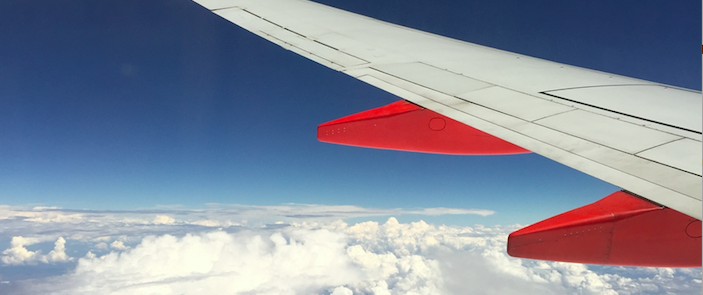
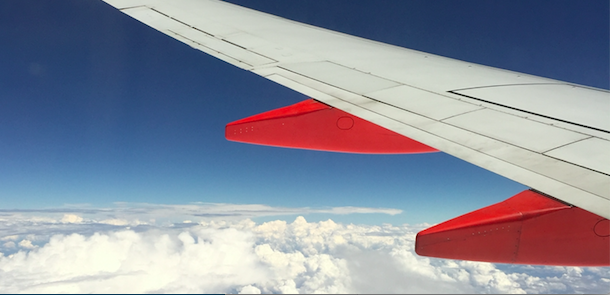
second commit everything

diff --git a/css/styles.css b/css/styles.css
@@ -9,4 +9,4 @@
     Description: This file contains all the styles associated with the page
     that don't come from third party libraries. This file gets compiled using
     Gulp and send to the /css folder which is then loaded on the page.
-*/body{font-family:'Lato', sans-serif;font-size:16px}body.active{overflow:hidden;z-index:-1}.no-js #experience-timeline>div{background:#fff;padding:10px;margin-bottom:10px;border:1px solid #dcd9d9}.no-js #experience-timeline>div h3{font-size:1.5em;font-weight:300;color:#374054;display:inline-block;margin:0}.no-js #experience-timeline>div h4{font-size:1.2em;font-weight:300;color:#7e8890;margin:0 0 15px 0}.no-js #experience-timeline>div p{color:#74808a;font-size:0.9em;margin:0}.no-js #experience-timeline:before,.no-js #experience-timeline:after{content:none}@keyframes dropHeader{0%{transform:translateY(-100%)}100%{transform:translateY(0)}}header{position:absolute;top:0;left:0;right:0;text-align:center;z-index:10;animation-name:dropHeader;animation-iteration-count:1;animation-timing-function:ease;animation-duration:0.75s}header ul{display:inline-block;background:#fff;text-align:center;padding:10px;margin:0;border-bottom-right-radius:4px;border-bottom-left-radius:4px}header li{display:inline-block}header a{display:block;color:#3498db;padding:10px}header a:hover{color:#217dbb;text-decoration:none;background:#eee;border-radius:4px}header a:focus{color:#3498db;text-decoration:none}header.active{display:block}header.sticky{position:fixed;z-index:999}#menu.active{display:block}#mobile-menu-open{display:none;cursor:pointer;position:fixed;right:15px;top:10px;color:#3498db;font-size:1.5em;z-index:20;padding:0 7px;border-radius:4px;background:#fff}#mobile-menu-close{display:none;text-align:right;width:100%;background:#fff;font-size:1.5em;padding-right:15px;padding-top:10px;cursor:pointer;color:#3498db}#mobile-menu-close span{font-size:0.5em;text-transform:uppercase}#mobile-menu-close i{vertical-align:middle}footer{padding:50px 0}.copyright{padding-top:20px}.copyright p{margin:0;color:#74808a}.top{text-align:center}.top span{cursor:pointer;display:block;margin:15px auto 0 auto;width:35px;height:35px;border-radius:50%;border:3px solid #b9bfc4;text-align:center}.top i{color:#74808a}.social{text-align:right}.social ul{margin:5px 0 0 0;padding:0}.social li{display:inline-block;font-size:1.25em;list-style:none}.social a{display:block;color:#74808a;padding:10px}.social a:hover{color:#3498db}.btn-rounded-white{display:inline-block;color:#fff;padding:15px 25px;border:3px solid #fff;border-radius:30px;transition:.5s ease all}.btn-rounded-white:hover{color:#3498db;background:#fff;text-decoration:none}.shadow{box-shadow:0 1px 3px rgba(0,0,0,0.12),0 1px 2px rgba(0,0,0,0.24)}.shadow-large{box-shadow:0 3px 6px rgba(0,0,0,0.08),0 3px 6px rgba(0,0,0,0.15)}.heading{position:relative;display:inline-block;font-size:2em;font-weight:300;margin:0 0 30px 0}.heading:after{position:absolute;content:'';top:100%;height:1px;width:50px;left:0;right:0;margin:0 auto;background:#3498db}.background-alt{background:#f2f2f5}#lead{position:relative;height:100vh;min-height:500px;max-height:1080px;background:url(../images/lead-bg.jpg);background-size:cover;padding:15px;overflow:hidden}#lead-content{position:absolute;z-index:10;top:50%;left:50%;transform:translate(-50%, -50%);text-align:center}#lead-content h1,#lead-content h2{margin:0}#lead-content h1{color:#fff;font-weight:900;font-size:5em;text-transform:uppercase;letter-spacing:0.05em;line-height:0.9em}#lead-content h2{color:#a0cfee;font-weight:500;font-size:2.25em;margin-bottom:15px}#lead-overlay{position:absolute;height:100%;width:100%;top:0;right:0;bottom:0;left:0;background:rgba(33,125,187,0.8);z-index:1}#lead-down{position:absolute;left:0;right:0;width:100%;text-align:center;z-index:10;bottom:15px;color:#fff}#lead-down span{cursor:pointer;display:block;margin:0 auto;width:35px;height:35px;border-radius:50%;border:3px solid #a0cfee;text-align:center}#lead-down i{animation:pulsate 1.5s ease;animation-iteration-count:infinite;padding-top:5px}@keyframes pulsate{0%{transform:scale(1, 1)}50%{transform:scale(1.2, 1.2)}100%{transform:scale(1, 1)}}#about{padding:75px 15px;border-bottom:1px solid #dcd9d9}#about h2{color:#374054}#about p{color:#74808a;margin:0}#experience{padding:50px 15px;text-align:center;border-bottom:1px solid #dcd9d9}#experience h2{color:#374054}#experience-timeline{margin:30px auto 0 auto;position:relative;max-width:1000px}#experience-timeline:before{position:absolute;content:'';top:0;bottom:0;left:303px;right:auto;height:100%;width:3px;background:#3498db;z-index:0}#experience-timeline:after{position:absolute;content:'';width:3px;height:40px;background:#3498db;background:linear-gradient(to bottom, #3498db, rgba(52,152,219,0));top:100%;left:303px}.vtimeline-content{margin-left:350px;background:#fff;border:1px solid #e6e6e6;padding:15px;border-radius:3px;text-align:left}.vtimeline-content h3{font-size:1.5em;font-weight:300;color:#374054;display:inline-block;margin:0}.vtimeline-content h4{font-size:1.2em;font-weight:300;color:#7e8890;margin:0 0 15px 0}.vtimeline-content p{color:#74808a;font-size:0.9em;margin:0}.vtimeline-point{position:relative;display:block;vertical-align:top;margin-bottom:30px}.vtimeline-icon{position:relative;color:#fff;width:50px;height:50px;background:#3498db;border-radius:50%;float:left;z-index:99;margin-left:280px}.vtimeline-icon i{display:block;font-size:2em;margin-top:10px}.vtimeline-date{width:260px;text-align:right;position:absolute;left:0;top:10px;font-weight:300;color:#374054}#education{padding:50px 15px 20px 15px;border-bottom:1px solid #dcd9d9;text-align:center}#education h2{color:#374054;margin-bottom:50px}.education-block{max-width:700px;margin:0 auto 30px auto;padding:15px;border:1px solid #dcd9d9;text-align:left}.education-block h3{font-weight:500;float:left;margin:0;color:#374054}.education-block span{color:#74808a;float:right}.education-block h4{color:#74808a;clear:both;font-weight:500;margin:0 0 15px 0}.education-block p,.education-block ul{margin:0;color:#74808a;font-size:0.9em}.education-block ul{padding:0 0 0 15px}#projects{padding:50px 15px;border-bottom:1px solid #dcd9d9;text-align:center}#projects h2{color:#374054;margin-bottom:50px}.project{position:relative;max-width:900px;margin:0 auto 30px auto;overflow:hidden;background:#fff;border-radius:4px}.project-image{float:left}.project-info{position:absolute;top:50%;transform:translateY(-50%);margin-left:300px;padding:15px}.project-info h3{font-size:1.5em;font-weight:300;color:#374054;margin:0 0 15px 0}.project-info p{color:#74808a;margin:0 0 15px 0;font-size:0.9em}.no-image .project-info{position:relative;margin:0;padding:30px 15px;transform:none}#more-projects{display:none}#skills{padding:50px 15px;text-align:center}#skills h2{color:#374054;margin-bottom:50px}#skills ul{display:block;margin:0 auto;padding:0;max-width:800px}#skills li{display:inline-block;margin:7px;padding:5px 10px;color:#374054;background:#e4e4ea;list-style:none;cursor:default;font-size:1.2em}#contact{padding:50px 15px;background:#3498db;text-align:center}#contact h2{margin:0 0 15px 0;color:#fff;font-weight:500}#contact-form{max-width:500px;margin:0 auto}#contact-form input,#contact-form textarea{display:block;width:100%;padding:10px;border-radius:4px;border:none;margin-bottom:10px;background:#1d6fa5;color:#fff;transition:.5s ease all}#contact-form input::-webkit-input-placeholder,#contact-form textarea::-webkit-input-placeholder{color:#fff}#contact-form input:-moz-placeholder,#contact-form textarea:-moz-placeholder{color:#fff;opacity:1}#contact-form input::-moz-placeholder,#contact-form textarea::-moz-placeholder{color:#fff;opacity:1}#contact-form input:-ms-input-placeholder,#contact-form textarea:-ms-input-placeholder{color:#fff}#contact-form input:focus,#contact-form textarea:focus{outline:none;background:#16527a}#contact-form textarea{height:150px;resize:none}#contact-form button{display:block;width:100%;background:#fff;border-radius:4px;padding:5px 10px;border:none;color:#3498db;font-weight:700;box-shadow:0 1px 3px rgba(0,0,0,0.12),0 1px 2px rgba(0,0,0,0.24);transition:.5s ease all}#contact-form button:hover{box-shadow:0 10px 20px rgba(0,0,0,0.19),0 6px 6px rgba(0,0,0,0.23)}.optional-section{padding:50px 15px;text-align:center;border-top:1px solid #dcd9d9}.optional-section h2{color:#374054}.optional-section-block{max-width:700px;margin:0 auto 30px auto;padding:15px;border:1px solid #dcd9d9;background:#fff;text-align:left}.optional-section-block h3{font-weight:500;margin:0 0 15px 0;color:#374054}.optional-section-block h4{color:#74808a;clear:both;font-weight:500;margin:0 0 15px 0}.optional-section-block p,.optional-section-block ul{margin:0 0 15px 0;color:#74808a;font-size:0.9em}.optional-section-block ul{padding:0 0 0 15px}@media only screen and (max-width: 750px){#experience-timeline:before,#experience-timeline:after{left:23px}.vtimeline-date{width:auto;text-align:left;position:relative;margin-bottom:15px;display:block;margin-left:70px}.vtimeline-icon{margin-left:0}.vtimeline-content{margin-left:70px}}@media only screen and (max-width: 992px){#lead{height:auto;min-height:auto;max-height:auto;padding:100px 15px}#lead-content{position:relative;transform:none;left:auto;top:auto}#lead-content h1{font-size:3em}#lead-content h2{font-size:1.75em}#about{text-align:center}#about p{text-align:left}}@media only screen and (max-width: 768px){header{position:fixed;display:none;z-index:999;animation:none;bottom:0;height:100%}#mobile-menu-open,#mobile-menu-close{display:block}#menu{height:100%;overflow-y:auto;box-shadow:none;border-radius:0;width:100%}#menu li{display:block;margin-bottom:10px}#lead-content h1{font-size:2em}#lead-content h2{font-size:1.3em}#lead-content a{padding:10px 20px}#lead-down{display:none}.education-block h3,.education-block span{float:none}.project-image{display:none}.project-info{position:relative;margin:0;padding:30px 15px;top:auto;transform:none}footer{text-align:center}.social{text-align:center}}@media only screen and (max-width: 480px){#lead-content h1{font-size:1.5em}#lead-content h2{font-size:1em}#lead-content a{font-size:0.9em;padding:5px 10px}}
+*/body{font-family:'Lato', sans-serif;font-size:16px}body.active{overflow:hidden;z-index:-1}.no-js #experience-timeline>div{background:#fff;padding:10px;margin-bottom:10px;border:1px solid #dcd9d9}.no-js #experience-timeline>div h3{font-size:1.5em;font-weight:300;color:#374054;display:inline-block;margin:0}.no-js #experience-timeline>div h4{font-size:1.2em;font-weight:300;color:#7e8890;margin:0 0 15px 0}.no-js #experience-timeline>div p{color:#74808a;font-size:0.9em;margin:0}.no-js #experience-timeline:before,.no-js #experience-timeline:after{content:none}@keyframes dropHeader{0%{transform:translateY(-100%)}100%{transform:translateY(0)}}header{position:absolute;top:0;left:0;right:0;text-align:center;z-index:10;animation-name:dropHeader;animation-iteration-count:1;animation-timing-function:ease;animation-duration:0.75s}header ul{display:inline-block;background:#fff;text-align:center;padding:10px;margin:0;border-bottom-right-radius:4px;border-bottom-left-radius:4px}header li{display:inline-block}header a{display:block;color:#3498db;padding:10px}header a:hover{color:#217dbb;text-decoration:none;background:#eee;border-radius:4px}header a:focus{color:#3498db;text-decoration:none}header.active{display:block}header.sticky{position:fixed;z-index:999}#menu.active{display:block}#mobile-menu-open{display:none;cursor:pointer;position:fixed;right:15px;top:10px;color:#3498db;font-size:1.5em;z-index:20;padding:0 7px;border-radius:4px;background:#fff}#mobile-menu-close{display:none;text-align:right;width:100%;background:#fff;font-size:1.5em;padding-right:15px;padding-top:10px;cursor:pointer;color:#3498db}#mobile-menu-close span{font-size:0.5em;text-transform:uppercase}#mobile-menu-close i{vertical-align:middle}footer{padding:50px 0}.copyright{padding-top:20px}.copyright p{margin:0;color:#74808a}.top{text-align:center}.top span{cursor:pointer;display:block;margin:15px auto 0 auto;width:35px;height:35px;border-radius:50%;border:3px solid #b9bfc4;text-align:center}.top i{color:#74808a}.social{text-align:right}.social ul{margin:5px 0 0 0;padding:0}.social li{display:inline-block;font-size:1.25em;list-style:none}.social a{display:block;color:#74808a;padding:10px}.social a:hover{color:#3498db}.btn-rounded-white{display:inline-block;color:#fff;padding:15px 25px;border:3px solid #fff;border-radius:30px;transition:.5s ease all}.btn-rounded-white:hover{color:#3498db;background:#fff;text-decoration:none}.shadow{box-shadow:0 1px 3px rgba(0,0,0,0.12),0 1px 2px rgba(0,0,0,0.24)}.shadow-large{box-shadow:0 3px 6px rgba(0,0,0,0.08),0 3px 6px rgba(0,0,0,0.15)}.heading{position:relative;display:inline-block;font-size:2em;font-weight:300;margin:0 0 30px 0}.heading:after{position:absolute;content:'';top:100%;height:1px;width:50px;left:0;right:0;margin:0 auto;background:#3498db}.background-alt{background:#f2f2f5}#lead{position:relative;height:100vh;min-height:500px;max-height:1080px;background:url(../images/4.png);background-size:cover;padding:15px;overflow:hidden}#lead-content{position:absolute;z-index:10;top:50%;left:50%;transform:translate(-50%, -50%);text-align:center}#lead-content h1,#lead-content h2{margin:0}#lead-content h1{color:#fff;font-weight:900;font-size:5em;text-transform:uppercase;letter-spacing:0.05em;line-height:0.9em}#lead-content h2{color:#a0cfee;font-weight:500;font-size:2.25em;margin-bottom:15px}#lead-overlay{position:absolute;height:100%;width:100%;top:0;right:0;bottom:0;left:0;background:rgba(33,125,187,0.8);z-index:1}#lead-down{position:absolute;left:0;right:0;width:100%;text-align:center;z-index:10;bottom:15px;color:#fff}#lead-down span{cursor:pointer;display:block;margin:0 auto;width:35px;height:35px;border-radius:50%;border:3px solid #a0cfee;text-align:center}#lead-down i{animation:pulsate 1.5s ease;animation-iteration-count:infinite;padding-top:5px}@keyframes pulsate{0%{transform:scale(1, 1)}50%{transform:scale(1.2, 1.2)}100%{transform:scale(1, 1)}}#about{padding:75px 15px;border-bottom:1px solid #dcd9d9}#about h2{color:#374054}#about p{color:#74808a;margin:0}#experience{padding:50px 15px;text-align:center;border-bottom:1px solid #dcd9d9}#experience h2{color:#374054}#experience-timeline{margin:30px auto 0 auto;position:relative;max-width:1000px}#experience-timeline:before{position:absolute;content:'';top:0;bottom:0;left:303px;right:auto;height:100%;width:3px;background:#3498db;z-index:0}#experience-timeline:after{position:absolute;content:'';width:3px;height:40px;background:#3498db;background:linear-gradient(to bottom, #3498db, rgba(52,152,219,0));top:100%;left:303px}.vtimeline-content{margin-left:350px;background:#fff;border:1px solid #e6e6e6;padding:15px;border-radius:3px;text-align:left}.vtimeline-content h3{font-size:1.5em;font-weight:300;color:#374054;display:inline-block;margin:0}.vtimeline-content h4{font-size:1.2em;font-weight:300;color:#7e8890;margin:0 0 15px 0}.vtimeline-content p{color:#74808a;font-size:0.9em;margin:0}.vtimeline-point{position:relative;display:block;vertical-align:top;margin-bottom:30px}.vtimeline-icon{position:relative;color:#fff;width:50px;height:50px;background:#3498db;border-radius:50%;float:left;z-index:99;margin-left:280px}.vtimeline-icon i{display:block;font-size:2em;margin-top:10px}.vtimeline-date{width:260px;text-align:right;position:absolute;left:0;top:10px;font-weight:300;color:#374054}#education{padding:50px 15px 20px 15px;border-bottom:1px solid #dcd9d9;text-align:center}#education h2{color:#374054;margin-bottom:50px}.education-block{max-width:700px;margin:0 auto 30px auto;padding:15px;border:1px solid #dcd9d9;text-align:left}.education-block h3{font-weight:500;float:left;margin:0;color:#374054}.education-block span{color:#74808a;float:right}.education-block h4{color:#74808a;clear:both;font-weight:500;margin:0 0 15px 0}.education-block p,.education-block ul{margin:0;color:#74808a;font-size:0.9em}.education-block ul{padding:0 0 0 15px}#projects{padding:50px 15px;border-bottom:1px solid #dcd9d9;text-align:center}#interests h2{color:#374054;margin-bottom:50px}.project{position:relative;max-width:900px;margin:0 auto 30px auto;overflow:hidden;background:#fff;border-radius:4px}.project-image{float:left}.project-info{position:absolute;top:50%;transform:translateY(-50%);margin-left:300px;padding:15px}.project-info h3{font-size:1.5em;font-weight:300;color:#374054;margin:0 0 15px 0}.project-info p{color:#74808a;margin:0 0 15px 0;font-size:0.9em}.no-image .project-info{position:relative;margin:0;padding:30px 15px;transform:none}#more-projects{display:none}#skills{padding:50px 15px;text-align:center}#skills h2{color:#374054;margin-bottom:50px}#skills ul{display:block;margin:0 auto;padding:0;max-width:800px}#skills li{display:inline-block;margin:7px;padding:5px 10px;color:#374054;background:#e4e4ea;list-style:none;cursor:default;font-size:1.2em}#contact{padding:50px 15px;background:#3498db;text-align:center}#contact h2{margin:0 0 15px 0;color:#fff;font-weight:500}#contact-form{max-width:500px;margin:0 auto}#contact-form input,#contact-form textarea{display:block;width:100%;padding:10px;border-radius:4px;border:none;margin-bottom:10px;background:#1d6fa5;color:#fff;transition:.5s ease all}#contact-form input::-webkit-input-placeholder,#contact-form textarea::-webkit-input-placeholder{color:#fff}#contact-form input:-moz-placeholder,#contact-form textarea:-moz-placeholder{color:#fff;opacity:1}#contact-form input::-moz-placeholder,#contact-form textarea::-moz-placeholder{color:#fff;opacity:1}#contact-form input:-ms-input-placeholder,#contact-form textarea:-ms-input-placeholder{color:#fff}#contact-form input:focus,#contact-form textarea:focus{outline:none;background:#16527a}#contact-form textarea{height:150px;resize:none}#contact-form button{display:block;width:100%;background:#fff;border-radius:4px;padding:5px 10px;border:none;color:#3498db;font-weight:700;box-shadow:0 1px 3px rgba(0,0,0,0.12),0 1px 2px rgba(0,0,0,0.24);transition:.5s ease all}#contact-form button:hover{box-shadow:0 10px 20px rgba(0,0,0,0.19),0 6px 6px rgba(0,0,0,0.23)}.optional-section{padding:50px 15px;text-align:center;border-top:1px solid #dcd9d9}.optional-section h2{color:#374054}.optional-section-block{max-width:700px;margin:0 auto 30px auto;padding:15px;border:1px solid #dcd9d9;background:#fff;text-align:left}.optional-section-block h3{font-weight:500;margin:0 0 15px 0;color:#374054}.optional-section-block h4{color:#74808a;clear:both;font-weight:500;margin:0 0 15px 0}.optional-section-block p,.optional-section-block ul{margin:0 0 15px 0;color:#74808a;font-size:0.9em}.optional-section-block ul{padding:0 0 0 15px}@media only screen and (max-width: 750px){#experience-timeline:before,#experience-timeline:after{left:23px}.vtimeline-date{width:auto;text-align:left;position:relative;margin-bottom:15px;display:block;margin-left:70px}.vtimeline-icon{margin-left:0}.vtimeline-content{margin-left:70px}}@media only screen and (max-width: 992px){#lead{height:auto;min-height:auto;max-height:auto;padding:100px 15px}#lead-content{position:relative;transform:none;left:auto;top:auto}#lead-content h1{font-size:3em}#lead-content h2{font-size:1.75em}#about{text-align:center}#about p{text-align:left}}@media only screen and (max-width: 768px){header{position:fixed;display:none;z-index:999;animation:none;bottom:0;height:100%}#mobile-menu-open,#mobile-menu-close{display:block}#menu{height:100%;overflow-y:auto;box-shadow:none;border-radius:0;width:100%}#menu li{display:block;margin-bottom:10px}#lead-content h1{font-size:2em}#lead-content h2{font-size:1.3em}#lead-content a{padding:10px 20px}#lead-down{display:none}.education-block h3,.education-block span{float:none}.project-image{display:none}.project-info{position:relative;margin:0;padding:30px 15px;top:auto;transform:none}footer{text-align:center}.social{text-align:center}}@media only screen and (max-width: 480px){#lead-content h1{font-size:1.5em}#lead-content h2{font-size:1em}#lead-content a{font-size:0.9em;padding:5px 10px}}

diff --git a/scss/styles.scss b/scss/styles.scss
@@ -350,7 +350,7 @@ footer {
     height: 100vh;
     min-height: 500px;
     max-height: 1080px;
-    background: url(../images/lead-bg.jpg);
+    background: url(../images/4.png);
     background-size: cover;
     padding: 15px;
     overflow: hidden;
@@ -630,7 +630,7 @@ footer {
     -------------------------------
 */
 
-#projects {
+#interests {
     padding: 50px 15px;
     border-bottom: 1px solid $border;
     text-align: center;
